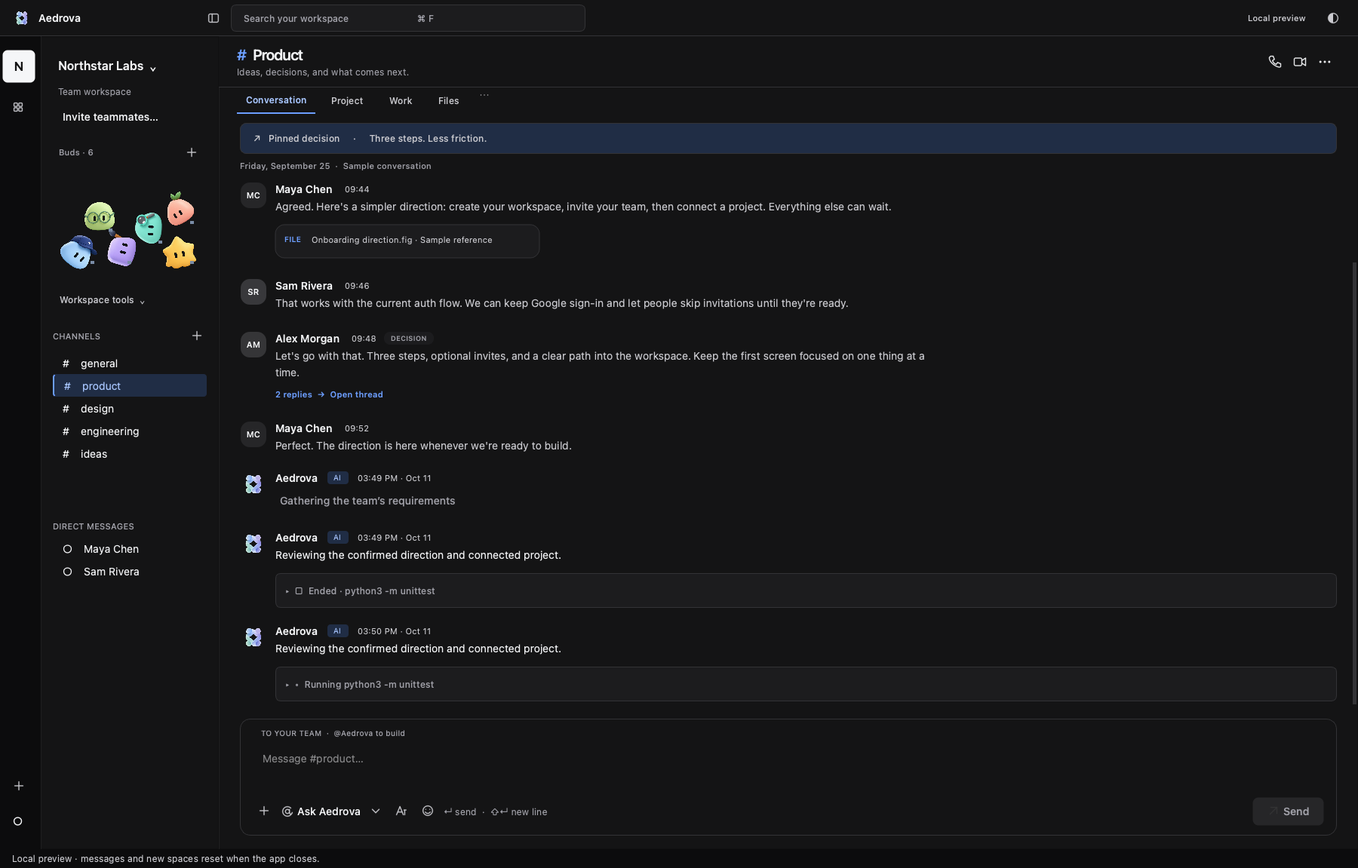
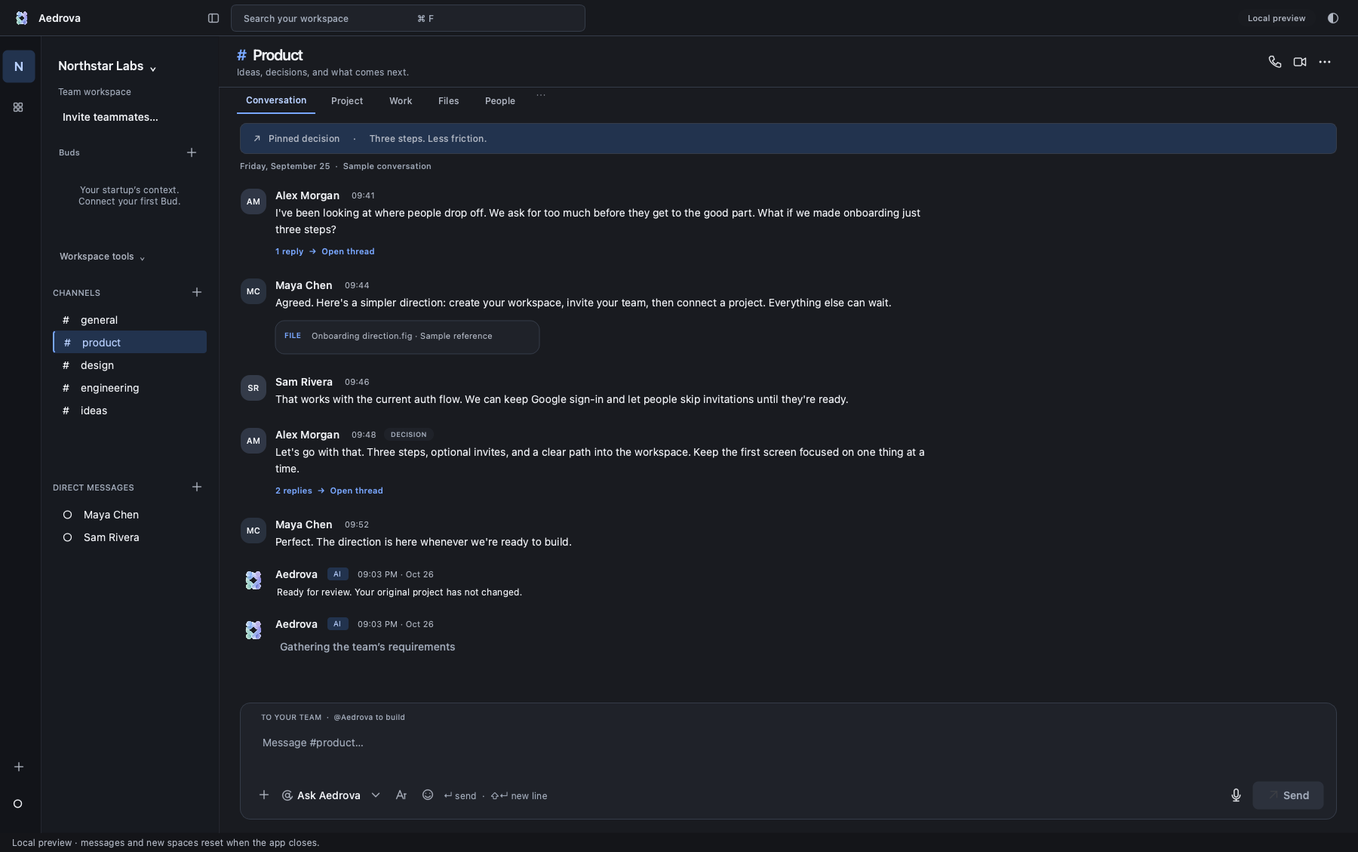
Refresh current product screenshots and introduce the Aedrova team (#26)
* Refresh current product screenshots and introduce the Aedrova team

* Arrange founders above communications in the team hierarchy

diff --git a/aedrova_site/templates/home.html b/aedrova_site/templates/home.html
@@ -20,7 +20,7 @@
 </section>
 
 <section class="statement reveal" id="how-it-works"><div class="section-label"><span>01 / FROM CONVERSATION TO CREATION</span><span>Aedrova, in three moments</span></div><h2>You’ve talked it through.<br><em>Now bring it to life.</em></h2><p>The idea. The decisions. The detail someone mentioned last Tuesday.<br>Your agent searches across your accessible chatspace to connect the dots before it builds.</p><div class="journey"><div><b>01</b><h3>Organize your team.</h3><p>Bring teams, channels and project discussions into a focused workspace.</p></div><div><b>02</b><h3>Give it direction.</h3><p>Agree on what’s next. Name your agent and connect your project.</p></div><div><b>03</b><h3>Make something real.</h3><p>Mention your agent. It plans, codes and tests with your saved permissions.</p></div></div></section>
-<section class="product-section reveal"><div class="product-intro"><span class="eyebrow">TEAM COMMUNICATION, CONNECTED TO DELIVERY.</span><h2>Your team’s workspace.<br><em>With the power to build.</em></h2><p>Your team already knows the story. Your agent should too.<br>Shared conversations, project briefs and agreed decisions become its starting point.</p></div><figure class="desktop-capture bud-anchor"><span class="bud-peek workspace-bud" aria-hidden="true"><span class="site-bud look-product"></span></span><img data-capture-theme="dark" src="/static/workspace-dark.png?v=20261011" alt="Actual Aedrova desktop: Workspace channels and team conversation" loading="lazy" width="1800" height="1151"><figcaption>Actual Aedrova desktop · Local demonstration workspace</figcaption></figure>
+<section class="product-section reveal"><div class="product-intro"><span class="eyebrow">TEAM COMMUNICATION, CONNECTED TO DELIVERY.</span><h2>Your team’s workspace.<br><em>With the power to build.</em></h2><p>Your team already knows the story. Your agent should too.<br>Shared conversations, project briefs and agreed decisions become its starting point.</p></div><figure class="desktop-capture bud-anchor"><span class="bud-peek workspace-bud" aria-hidden="true"><span class="site-bud look-product"></span></span><picture><img class="meeting-image-light" src="/static/workspace-light.png?v=20261026" alt="Actual Aedrova desktop: Workspace channels and team conversation" loading="lazy" width="1800" height="1129"><img class="meeting-image-dark" src="/static/workspace-dark.png?v=20261026" alt="Actual Aedrova desktop: Workspace channels and team conversation" loading="lazy" width="1800" height="1129"></picture><figcaption>Actual Aedrova desktop · Local demonstration workspace</figcaption></figure>
 <div class="integration-strip"><span>Keep the tools you love.</span><strong>Codex</strong><strong>Claude Code</strong><strong>GitHub</strong><strong>VS Code</strong><strong>Cursor</strong></div></section>
 <section class="buds-section reveal" id="ai-teammates" aria-labelledby="buds-heading">
 <div class="buds-heading"><span class="eyebrow">MEET YOUR BUDS · DESKTOP PREVIEW</span><h2 id="buds-heading">Small teammates.<br><em>Real potential.</em></h2><p>Give each Bud a name, a specialty and a little personality.<br>They live beside your team, ready when you mention them.</p></div>
@@ -28,27 +28,28 @@
 <p class="buds-availability">Buds are implemented in the desktop preview. Connector availability depends on provider setup and authorization; some integrations still require production approval. Public access remains waitlist-only.</p>
 </section>
 <section class="features" id="features"><div class="section-label"><span>02 / THE WORKSPACE</span><span>Everything has its place</span></div>
-<article class="feature-story reveal"><div class="story-copy"><span class="eyebrow">THE TEAM’S HOME BASE</span><h2>Keep teams aligned.<br><em>Keep discussions focused.</em></h2><p>Private workspaces and channels. Focused threads. Direct messages, shared files and easy invitations. One place for the people behind the product.</p><span class="feature-note">Channels · Threads · DMs · Files · Invitations · Roles</span></div><figure class="bud-anchor story-capture"><span class="bud-peek thread-bud" aria-hidden="true"><span class="site-bud look-marketing"></span></span><img data-capture-theme="light" src="/static/thread-light.png?v=20261011" alt="Actual Aedrova desktop: Focused discussion in the thread panel" loading="lazy" width="1800" height="1151"><figcaption>Actual desktop UI · Local demonstration workspace</figcaption></figure></article>
-<article class="feature-story reverse reveal"><div class="story-copy"><span class="eyebrow">SAME TEAM. SAME CONTEXT.</span><h2>It starts with<br><em>what your team knows.</em></h2><p>The brief is more than your last message. When you ask Aedrova to build, it searches your accessible channels, threads and conversations, brings in supported text files and project briefs, and follows the decisions your team has confirmed. Less re-explaining. More building from the same understanding.</p><span class="feature-note">Chats &amp; threads · Supported text files · Project briefs · Confirmed decisions</span></div><figure class="bud-anchor story-capture"><span class="bud-peek files-bud" aria-hidden="true"><span class="site-bud look-designer"></span></span><img data-capture-theme="light" src="/static/files-light.png?v=20261011" alt="Actual Aedrova desktop: Shared sample product briefs and design references" loading="lazy" width="1800" height="1151"><figcaption>Actual desktop UI · Local demonstration workspace</figcaption></figure></article>
-<article class="feature-story reveal"><div class="story-copy"><span class="eyebrow">YOUR NEW TEAMMATE</span><h2>Meet Aedrova.<br><em>Or make it your own.</em></h2><p>A named coding agent, powered by Codex or Claude Code. It plans and executes in the background using your project permissions. Give it a task. Keep the conversation going.</p><span class="feature-note">Agent nicknames · Automatic planning · Live activity · Stop controls</span></div><figure class="story-capture"><img data-capture-theme="dark" src="/static/activity-dark.png?v=20261011" alt="Actual Aedrova desktop: In-chat coding agent activity demonstration" loading="lazy" width="1800" height="1151"><figcaption>Actual desktop UI · Demonstration activity, not a live provider run</figcaption></figure></article>
-<article class="feature-story reverse reveal"><div class="story-copy"><span class="eyebrow">REAL WORK, IN YOUR REAL PROJECT</span><h2>The conversation ends.<br><em>The code begins.</em></h2><p>Connect your local project and IDE. Your agent builds in a separate copy, runs tests and shows its work. Review the diff, apply the changes and approve delivery to GitHub.</p><span class="feature-note">Local IDE · Tests · Diffs · Approved branch &amp; draft PR · Static preview</span></div><figure class="bud-anchor story-capture"><span class="bud-peek project-bud" aria-hidden="true"><span class="site-bud look-builder"></span></span><img data-capture-theme="dark" src="/static/projects-dark.png?v=20261011" alt="Actual Aedrova desktop: Projects tab with a sample project brief" loading="lazy" width="1800" height="1151"><figcaption>Actual desktop UI · Projects tab with a sample brief</figcaption></figure></article>
+<article class="feature-story reveal"><div class="story-copy"><span class="eyebrow">THE TEAM’S HOME BASE</span><h2>Keep teams aligned.<br><em>Keep discussions focused.</em></h2><p>Private workspaces and channels. Focused threads. Direct messages, shared files and easy invitations. One place for the people behind the product.</p><span class="feature-note">Channels · Threads · DMs · Files · Invitations · Roles</span></div><figure class="bud-anchor story-capture"><span class="bud-peek thread-bud" aria-hidden="true"><span class="site-bud look-marketing"></span></span><picture><img class="meeting-image-light" src="/static/thread-light.png?v=20261026" alt="Actual Aedrova desktop: Focused discussion in the thread panel" loading="lazy" width="1800" height="1129"><img class="meeting-image-dark" src="/static/thread-dark.png?v=20261026" alt="Actual Aedrova desktop: Focused discussion in the thread panel" loading="lazy" width="1800" height="1129"></picture><figcaption>Actual desktop UI · Local demonstration workspace</figcaption></figure></article>
+<article class="feature-story reverse reveal"><div class="story-copy"><span class="eyebrow">SAME TEAM. SAME CONTEXT.</span><h2>It starts with<br><em>what your team knows.</em></h2><p>The brief is more than your last message. When you ask Aedrova to build, it searches your accessible channels, threads and conversations, brings in supported text files and project briefs, and follows the decisions your team has confirmed. Less re-explaining. More building from the same understanding.</p><span class="feature-note">Chats &amp; threads · Supported text files · Project briefs · Confirmed decisions</span></div><figure class="bud-anchor story-capture"><span class="bud-peek files-bud" aria-hidden="true"><span class="site-bud look-designer"></span></span><picture><img class="meeting-image-light" src="/static/files-light.png?v=20261026" alt="Actual Aedrova desktop: Shared sample product briefs and design references" loading="lazy" width="1800" height="1129"><img class="meeting-image-dark" src="/static/files-dark.png?v=20261026" alt="Actual Aedrova desktop: Shared sample product briefs and design references" loading="lazy" width="1800" height="1129"></picture><figcaption>Actual desktop UI · Local demonstration workspace</figcaption></figure></article>
+<article class="feature-story reveal"><div class="story-copy"><span class="eyebrow">YOUR NEW TEAMMATE</span><h2>Meet Aedrova.<br><em>Or make it your own.</em></h2><p>A named coding agent, powered by Codex or Claude Code. It plans and executes in the background using your project permissions. Give it a task. Keep the conversation going.</p><span class="feature-note">Agent nicknames · Automatic planning · Live activity · Stop controls</span></div><figure class="story-capture"><picture><img class="meeting-image-light" src="/static/activity-light.png?v=20261026" alt="Actual Aedrova desktop: In-chat coding agent activity demonstration" loading="lazy" width="1800" height="1129"><img class="meeting-image-dark" src="/static/activity-dark.png?v=20261026" alt="Actual Aedrova desktop: In-chat coding agent activity demonstration" loading="lazy" width="1800" height="1129"></picture><figcaption>Actual desktop UI · Demonstration activity, not a live provider run</figcaption></figure></article>
+<article class="feature-story reverse reveal"><div class="story-copy"><span class="eyebrow">REAL WORK, IN YOUR REAL PROJECT</span><h2>The conversation ends.<br><em>The code begins.</em></h2><p>Connect your local project and IDE. Your agent builds in a separate copy, runs tests and shows its work. Review the diff, apply the changes and approve delivery to GitHub.</p><span class="feature-note">Local IDE · Tests · Diffs · Approved branch &amp; draft PR · Static preview</span></div><figure class="bud-anchor story-capture"><span class="bud-peek project-bud" aria-hidden="true"><span class="site-bud look-builder"></span></span><picture><img class="meeting-image-light" src="/static/projects-light.png?v=20261026" alt="Actual Aedrova desktop: Projects tab with a sample project brief" loading="lazy" width="1800" height="1129"><img class="meeting-image-dark" src="/static/projects-dark.png?v=20261026" alt="Actual Aedrova desktop: Projects tab with a sample project brief" loading="lazy" width="1800" height="1129"></picture><figcaption>Actual desktop UI · Projects tab with a sample brief</figcaption></figure></article>
 <div class="principles reveal"><article><span>01 / YOUR SPACE, YOUR SAY</span><h3>Control stays with you.</h3><p>Google sign-in, workspace roles and channel access. Review before applying changes. Publishing to GitHub takes a separate approval.</p></article><article><span>02 / KEEP THE THREAD</span><h3>Pick up where you left off.</h3><p>A durable build queue, run history and usage visibility. Saved work stays available. Choose what to resume after a restart.</p></article></div>
 </section>
 <section class="meeting-section reveal" id="meetings" aria-labelledby="meeting-heading">
 <div class="meeting-copy"><span class="eyebrow">MEETINGS / PART OF YOUR WORKSPACE</span><h2 id="meeting-heading">Talk it through.<br><em>Keep the understanding.</em></h2><p>Start a meeting from a channel. Bring your team together with audio, video and screen sharing, then return to the conversation without leaving Aedrova.</p><p>A join card brings public meetings into #general or your team’s chosen channel. See who’s there through participant photos and a live count. Private meetings stay in their own channel.</p><span class="coming">Implemented in the desktop preview · Public rollout pending</span></div>
-<figure class="bud-anchor story-capture meeting-overview"><span class="bud-peek meeting-bud" aria-hidden="true"><span class="site-bud look-finance"></span></span><picture><img class="meeting-image-light" src="/static/meetings-light.png?v=20261011" alt="Actual light-theme Aedrova meeting settings with Start meeting and Check meeting devices" loading="lazy" width="1060" height="830"><img class="meeting-image-dark" src="/static/meetings-dark.png?v=20261011" alt="Actual dark-theme Aedrova meeting settings with Start meeting and Check meeting devices" loading="lazy" width="1060" height="830"></picture><figcaption>Actual Mac app · Local preview · No staged call or simulated participants</figcaption></figure>
+<figure class="bud-anchor story-capture meeting-overview"><span class="bud-peek meeting-bud" aria-hidden="true"><span class="site-bud look-finance"></span></span><picture><img class="meeting-image-light" src="/static/meetings-light.png?v=20261026" alt="Actual light-theme Aedrova meeting settings with Start meeting and Check meeting devices" loading="lazy" width="1060" height="830"><img class="meeting-image-dark" src="/static/meetings-dark.png?v=20261026" alt="Actual dark-theme Aedrova meeting settings with Start meeting and Check meeting devices" loading="lazy" width="1060" height="830"></picture><figcaption>Actual Mac app · Local preview · No staged call or simulated participants</figcaption></figure>
 </section>
 <section class="meeting-details reveal" aria-label="Meeting capabilities">
 <article><span class="eyebrow">01 / A FAMILIAR PLACE TO MEET</span><h3>The controls you expect.</h3><p>Gallery and speaker views. A participant panel. Clear microphone, camera and screen-sharing controls. Join with your devices off and choose when to enable them.</p></article>
 <article><span class="eyebrow">02 / READY BEFORE YOU JOIN</span><h3>A little confidence first.</h3><p>Check your camera, microphone input, speakers and screen preview locally. Device checks aren’t shared with the meeting or saved as recordings.</p></article>
 <article><span class="eyebrow">03 / CONTEXT, WITH CONSENT</span><h3>Words that inform the work.</h3><p>Optional audio transcription requires current consent from every participant. AI reuse is a separate choice. Review saved text, edit it and confirm decisions before it becomes part of your agent’s accessible build context.</p></article>
 </section>
-<section class="meeting-device-section reveal"><div class="meeting-copy"><span class="eyebrow">YOUR TEAM’S CONTEXT. YOUR TEAM’S CONTROL.</span><h2>The discussion<br><em>stays connected.</em></h2><p>Chat explains what changed. Meetings explain why. Reviewed, consented transcripts and confirmed decisions can sit alongside accessible conversations and supported files when your agent gathers the context for a build.</p><p>Meeting context comes from audio transcripts and reviewed text. Screen sharing lets teammates see your work; it does not give the agent automatic visual understanding of your screen.</p><small>Transcription requires an enabled meeting service and speech provider. Public meeting availability is still being validated; the website remains waitlist-only.</small></div><figure class="story-capture meeting-device-capture"><img class="meeting-image-light" src="/static/devices-light.png?v=20261011" alt="Actual light-theme Aedrova device setup with camera, microphone, speaker and screen checks; all devices off" loading="lazy" width="1050" height="1050"><img class="meeting-image-dark" src="/static/devices-dark.png?v=20261011" alt="Actual dark-theme Aedrova device setup with camera, microphone, speaker and screen checks; all devices off" loading="lazy" width="1050" height="1050"><figcaption>Actual device-check screen · Devices off</figcaption></figure></section>
-<section class="meeting-device-section reveal" id="product-memory"><div class="meeting-copy"><span class="eyebrow">PRODUCT MEMORY · DESKTOP PREVIEW</span><h2>Decisions that stay.<br><em>Context that evolves.</em></h2><p>Keep goals, requirements and constraints beside the conversations that shaped them. Review proposals, approve decisions and trace each entry back to its source.</p><p>Changed evidence is flagged. Replacements retain revision history. Your agent receives a pinned memory snapshot for its build, with private-source permissions intact.</p><small>Implemented in the local desktop preview. Hosted memory persistence and privacy checks are validated; public access remains waitlist-only. Proposals and unresolved conflicts are not approved requirements.</small></div><figure class="bud-anchor story-capture"><span class="bud-peek memory-bud" aria-hidden="true"><span class="site-bud look-product"></span></span><img class="meeting-image-light" src="/static/memory-light.png?v=20261011" alt="Actual Aedrova Product memory view in light theme, with a sample approved constraint and source citation" loading="lazy" width="1400" height="1100"><img class="meeting-image-dark" src="/static/memory-dark.png?v=20261011" alt="Actual Aedrova Product memory view in dark theme, with a sample approved constraint and review controls" loading="lazy" width="1400" height="1100"><figcaption>Actual desktop preview · Sample data · Rollout pending</figcaption></figure></section>
+<section class="meeting-device-section reveal"><div class="meeting-copy"><span class="eyebrow">YOUR TEAM’S CONTEXT. YOUR TEAM’S CONTROL.</span><h2>The discussion<br><em>stays connected.</em></h2><p>Chat explains what changed. Meetings explain why. Reviewed, consented transcripts and confirmed decisions can sit alongside accessible conversations and supported files when your agent gathers the context for a build.</p><p>Meeting context comes from audio transcripts and reviewed text. Screen sharing lets teammates see your work; it does not give the agent automatic visual understanding of your screen.</p><small>Transcription requires an enabled meeting service and speech provider. Public meeting availability is still being validated; the website remains waitlist-only.</small></div><figure class="story-capture meeting-device-capture"><img class="meeting-image-light" src="/static/devices-light.png?v=20261026" alt="Actual light-theme Aedrova device setup with camera, microphone, speaker and screen checks; all devices off" loading="lazy" width="1050" height="1050"><img class="meeting-image-dark" src="/static/devices-dark.png?v=20261026" alt="Actual dark-theme Aedrova device setup with camera, microphone, speaker and screen checks; all devices off" loading="lazy" width="1050" height="1050"><figcaption>Actual device-check screen · Devices off</figcaption></figure></section>
+<section class="meeting-device-section reveal" id="product-memory"><div class="meeting-copy"><span class="eyebrow">PRODUCT MEMORY · DESKTOP PREVIEW</span><h2>Decisions that stay.<br><em>Context that evolves.</em></h2><p>Keep goals, requirements and constraints beside the conversations that shaped them. Review proposals, approve decisions and trace each entry back to its source.</p><p>Changed evidence is flagged. Replacements retain revision history. Your agent receives a pinned memory snapshot for its build, with private-source permissions intact.</p><small>Implemented in the local desktop preview. Hosted memory persistence and privacy checks are validated; public access remains waitlist-only. Proposals and unresolved conflicts are not approved requirements.</small></div><figure class="bud-anchor story-capture"><span class="bud-peek memory-bud" aria-hidden="true"><span class="site-bud look-product"></span></span><img class="meeting-image-light" src="/static/memory-light.png?v=20261026" alt="Actual Aedrova Product memory view in light theme, with a sample approved constraint and source citation" loading="lazy" width="1000" height="1050"><img class="meeting-image-dark" src="/static/memory-dark.png?v=20261026" alt="Actual Aedrova Product memory view in dark theme, with a sample approved constraint and review controls" loading="lazy" width="1000" height="1050"><figcaption>Actual desktop preview · Sample data · Rollout pending</figcaption></figure></section>
 
-<section class="meeting-device-section reveal buds-connectors-story"><div class="meeting-copy"><span class="eyebrow">YOUR TOOLS. A LITTLE MORE CONNECTED.</span><h2>Give your Bud<br><em>a useful starting point.</em></h2><p>A connector gallery organized around your Bud’s role. Recognizable app icons, clear access descriptions and connection status make setup easier to understand.</p><p>GitHub, Supabase, Figma, Notion, Stripe, TikTok, Instagram, Search and Vercel appear in the gallery. A listed connector is not a promise of public availability: each provider has its own setup and approval requirements.</p><a class="text-link" href="/waitlist">Meet your Buds when Aedrova opens →</a></div><figure class="story-capture bud-capture"><img src="/static/buds-connectors-current.png?v=20261011" alt="Actual current Aedrova Bud setup: Builder connector gallery with GitHub, Supabase and Vercel app icons" loading="lazy" width="1200" height="1000"><figcaption>Actual current Mac app · Bud connector gallery · Preview</figcaption><span class="bud-peek capture-bud" aria-hidden="true"><span class="site-bud look-research"></span></span></figure></section>
-<section class="meeting-device-section reveal"><div class="meeting-copy"><span class="eyebrow">A CLEAR HANDOFF</span><h2>Connected.<br><em>And in your corner.</em></h2><p>Connection confirmations show your Bud, the authorized tool and what it can access. Return to your workspace and keep moving.</p><small>This current desktop capture uses demonstration data to show a read-only GitHub confirmation. It does not establish public connector availability.</small></div><figure class="story-capture"><img src="/static/buds-connection-current.png?v=20261011" alt="Current Aedrova desktop confirmation UI: Orbit Bud with a sample read-only GitHub connection" loading="lazy" width="823" height="572"><figcaption>Actual desktop confirmation UI · Demonstration data</figcaption></figure></section>
-<section class="meeting-device-section reveal" id="build-evidence"><div class="meeting-copy"><span class="eyebrow">BUILD EVIDENCE · DESKTOP PREVIEW</span><h2>From a decision.<br><em>To a reviewable change.</em></h2><p>Connect approved requirements and source citations to actual file diffs and observed check results. Keep acceptance criteria beside the evidence your team reviews.</p><p>Comment, request changes and approve an exact evidence version. A changed source or a later edit keeps old checks from standing in for current verification.</p><small>Implemented in the local desktop preview. Hosted shared-review persistence and two-account permission checks are validated. Review does not apply or publish code; delivery still uses explicit approval. Public access remains waitlist-only.</small></div><figure class="story-capture"><img class="meeting-image-light" src="/static/build-review-light.png?v=20261011" alt="Actual light-theme Aedrova build evidence screen with sample requirements and a real local check" loading="lazy" width="1440" height="1000"><img class="meeting-image-dark" src="/static/build-review-dark.png?v=20261011" alt="Actual dark-theme Aedrova shared-review screen with sample evidence" loading="lazy" width="1440" height="1000"><figcaption>Actual desktop preview · Sample data · Rollout pending</figcaption></figure></section>
+<section class="meeting-device-section reveal buds-connectors-story"><div class="meeting-copy"><span class="eyebrow">YOUR TOOLS. A LITTLE MORE CONNECTED.</span><h2>Give your Bud<br><em>a useful starting point.</em></h2><p>A connector gallery organized around your Bud’s role. Recognizable app icons, clear access descriptions and connection status make setup easier to understand.</p><p>GitHub, Supabase, Figma, Notion, Stripe, TikTok, Instagram, Search and Vercel appear in the gallery. A listed connector is not a promise of public availability: each provider has its own setup and approval requirements.</p><a class="text-link" href="/waitlist">Meet your Buds when Aedrova opens →</a></div><figure class="story-capture bud-capture"><picture><img class="meeting-image-light" src="/static/buds-connectors-current.png?v=20261026" alt="Actual current Aedrova Bud setup: Builder connector gallery with recognizable app icons" loading="lazy" width="1200" height="1000"><img class="meeting-image-dark" src="/static/buds-connectors-dark.png?v=20261026" alt="Actual current Aedrova Bud setup: Builder connector gallery with recognizable app icons" loading="lazy" width="1200" height="1000"></picture><figcaption>Actual current Mac app · Bud connector gallery · Preview</figcaption><span class="bud-peek capture-bud" aria-hidden="true"><span class="site-bud look-research"></span></span></figure></section>
+<section class="meeting-device-section reveal"><div class="meeting-copy"><span class="eyebrow">A CLEAR HANDOFF</span><h2>Connected.<br><em>And in your corner.</em></h2><p>Connection confirmations show your Bud, the authorized tool and what it can access. Return to your workspace and keep moving.</p><small>This current desktop capture uses demonstration data to show a read-only GitHub confirmation. It does not establish public connector availability.</small></div><figure class="story-capture"><picture><img class="meeting-image-light" src="/static/buds-connection-current.png?v=20261026" alt="Current Aedrova desktop confirmation UI: Orbit Bud with a sample read-only GitHub connection" loading="lazy" width="1200" height="1000"><img class="meeting-image-dark" src="/static/buds-connection-dark.png?v=20261026" alt="Current Aedrova desktop confirmation UI: Orbit Bud with a sample read-only GitHub connection" loading="lazy" width="1200" height="1000"></picture><figcaption>Actual desktop confirmation UI · Demonstration data</figcaption></figure></section>
+<section class="meeting-device-section reveal" id="build-evidence"><div class="meeting-copy"><span class="eyebrow">BUILD EVIDENCE · DESKTOP PREVIEW</span><h2>From a decision.<br><em>To a reviewable change.</em></h2><p>Connect approved requirements and source citations to actual file diffs and observed check results. Keep acceptance criteria beside the evidence your team reviews.</p><p>Comment, request changes and approve an exact evidence version. A changed source or a later edit keeps old checks from standing in for current verification.</p><small>Implemented in the local desktop preview. Hosted shared-review persistence and two-account permission checks are validated. Review does not apply or publish code; delivery still uses explicit approval. Public access remains waitlist-only.</small></div><figure class="story-capture"><img class="meeting-image-light" src="/static/build-review-light.png?v=20261026" alt="Actual light-theme Aedrova build evidence screen with sample requirements and a real local check" loading="lazy" width="1000" height="840"><img class="meeting-image-dark" src="/static/build-review-dark.png?v=20261026" alt="Actual dark-theme Aedrova shared-review screen with sample evidence" loading="lazy" width="1000" height="840"><figcaption>Actual desktop preview · Sample data · Rollout pending</figcaption></figure></section>
 <section class="more-section reveal"><span class="eyebrow">A LITTLE FURTHER AHEAD</span><h2>Room for what<br><em>comes next.</em></h2><p>Bring design intent into the same shared understanding.<br>Planned design and productivity integrations will connect more of the files,<br>designs and project knowledge your team works from.</p><div class="future-tools"><span>Figma</span><span>Notion</span><span>Google Drive</span><span>GitLab</span></div><small>On the roadmap. Availability will be announced as features ship.</small></section>
+{% include "team.html" %}
 <section class="faq reveal"><span class="eyebrow">A FEW THINGS YOU MIGHT BE WONDERING</span><h2>Let’s clear a little space.</h2><details><summary>Does my agent read every conversation?</summary><p>When you ask it to build, it searches across the workspace context you’re authorized to access, rather than relying only on your latest prompt. That includes accessible conversations, supported small text attachments and confirmed decisions. It stays quiet until invoked, and workspace and channel permissions still apply. Reviewed, consented meeting transcripts are implemented in the desktop preview and require an enabled meeting service. Buds can use authorized connector resources where provider setup is complete; public availability remains pending.</p></details><details><summary>Will it change my local project automatically?</summary><p>With your saved execution permission, the agent plans, codes and tests in a separate local copy. You review before applying changes to your original project. GitHub publication requires a separate approval.</p></details><details><summary>Are Codex and Claude Code included?</summary><p>The paid beta is being prepared with an included AI allowance through Aedrova’s managed provider access. Free includes limited AI access. Pro provides expanded capacity, and Team supports larger tasks and two simultaneous workflows. No automatic overage charges. <a href="/onboarding">Compare plans.</a> The current internal alpha uses separate provider setup; checkout stays closed until the paid experience is ready.</p></details><details><summary>Can we use it for meetings?</summary><p>The desktop preview includes channel meetings, audio and video, screen sharing, gallery and speaker views, device checks, and joinable channel announcements with participant presence. Optional transcription and AI reuse require participant consent and configured services. Public rollout and final multi-device validation are pending; join the waitlist for availability updates.</p></details><details><summary>What platform is Aedrova built for?</summary><p>Aedrova is a Mac desktop app, downloaded from this website. The public installer will be available after signing and release verification.</p></details></section>
 <section class="final-cta reveal bud-corner-section"><span class="bud-peek cta-bud" aria-hidden="true"><span class="site-bud look-marketing"></span></span><span class="eyebrow">GOOD THINGS START HERE</span><h2>Bring your team.<br><em>Move work forward.</em></h2><p>Your team’s conversations. Your shared understanding. Your next build.</p><a class="button" href="{{ "/waitlist" if waitlist_only else "/onboarding" }}">{{ "Join waitlist today" if waitlist_only else "Get started" }} <span>↗</span></a><a class="text-link" href="/onboarding">Take a look at the plans →</a></section>{% endblock %}

diff --git a/aedrova_site/static/site.css b/aedrova_site/static/site.css
@@ -405,3 +405,13 @@ footer.trust-footer{display:grid;grid-template-columns:minmax(180px,1fr) 3fr;gap
 @media(max-width:650px){.early-access-offer{padding:20px 16px}.early-access-active .regular-price{font-size:26px}}
 
 .early-access-active .regular-amount{text-decoration:line-through;text-decoration-thickness:1px;text-decoration-color:currentColor}
+
+/* Owner-confirmed team. Founders lead the vertical hierarchy. */
+.team-section{max-width:1200px;margin:110px auto;padding:60px 42px;border-top:1px solid var(--edge)}
+.team-intro{text-align:center;margin-bottom:48px}.team-intro h2{font-size:clamp(38px,4.5vw,64px);margin-bottom:24px}.team-intro p{max-width:470px;margin-inline:auto;font-size:14px}.team-intro .text-link{margin-top:12px}
+.team-hierarchy{max-width:960px;margin:auto}.team-tier-label{text-align:center;font-size:10px;letter-spacing:.13em;text-transform:uppercase;color:var(--muted);font-weight:500;margin:0 0 22px}.team-grid{display:grid;grid-template-columns:repeat(3,minmax(0,1fr));gap:28px}.team-member{min-width:0}.team-monogram{height:172px;border:1px solid var(--edge);border-radius:18px;background:var(--surface);position:relative;overflow:hidden;display:flex;align-items:center;justify-content:center;color:var(--text)}
+.team-monogram>span:first-child{font-size:44px;letter-spacing:-.055em;font-weight:500;z-index:1}.team-orbit{position:absolute;width:160px;height:160px;right:-70px;bottom:-85px;border:1px solid var(--blue);border-radius:50%;opacity:.24}.team-orbit:before{content:"";position:absolute;inset:-26px;border:1px solid var(--blue);border-radius:50%}.team-member:nth-child(2) .team-orbit{transform:translate(-160px,-100px)}.team-member:nth-child(3) .team-orbit{transform:translate(-145px,12px)}
+.team-member-details{padding:18px 2px 0}.team-member h4{font-size:17px;line-height:1.35;margin:0 0 7px;letter-spacing:-.025em;font-weight:600}.team-member p{font-size:12px;line-height:1.6;margin:0}.team-tier-communications{position:relative;padding-top:64px;margin-top:28px}.team-tier-communications:before{content:"";position:absolute;top:0;left:50%;height:40px;width:1px;background:var(--edge)}.team-tier-communications .team-grid{grid-template-columns:minmax(0,calc((100% - 56px)/3));justify-content:center}
+.legal .team-section{padding:42px 0;margin:48px 0}.legal .team-intro h2{margin-top:0}.legal .team-intro p{max-width:480px}
+@media(max-width:850px){.team-section{margin:65px auto;padding:40px 24px}.team-grid{gap:18px}.team-monogram{height:140px}.team-member h4{font-size:15px}}
+@media(max-width:600px){.team-grid,.team-tier-communications .team-grid{grid-template-columns:minmax(0,1fr);max-width:380px;margin-inline:auto;gap:28px}.team-monogram{height:190px}.team-member h4{font-size:19px}.team-member p{font-size:13px}.team-intro{margin-bottom:36px}}

diff --git a/aedrova_site/templates/base.html b/aedrova_site/templates/base.html
@@ -11,7 +11,7 @@
   <meta property="og:title" content="{{ seo.title }}">
   <meta property="og:description" content="{{ seo.description }}">
   <meta property="og:url" content="{{ seo.canonical }}">
-  <meta property="og:image" content="https://aedrova.com/static/workspace-dark.png">
+  <meta property="og:image" content="https://aedrova.com/static/workspace-dark.png?v=20261026">
   <meta name="twitter:card" content="summary_large_image">
   {% if seo.graph %}<script type="application/ld+json">{{ seo.graph | tojson }}</script>{% endif %}
   <meta name="theme-color" content="#F5F6F8">
@@ -43,7 +43,7 @@
 <div class="footer-brand"><a class="wordmark" href="/"><img src="/static/brand.png" alt="" width="28" height="28"><span>Aedrova</span></a><p>Your team, plus AI.</p></div>
 <nav class="footer-columns" aria-label="Footer navigation">
 <div><h2>Product</h2><a href="/#features">The workspace</a><a href="/#ai-teammates">Meet your Buds</a><a href="/onboarding">Plans for your team</a><a href="{{ '/waitlist' if waitlist_only else '/download' }}">{{ 'Join the waitlist' if waitlist_only else 'Downloads' }}</a></div>
-<div><h2>Resources</h2><a href="/product">What is Aedrova?</a><a href="/faq">Common questions</a><a href="/about">About Aedrova</a><a href="/research/crawlability">Our crawlability study</a><a href="/support">Help & troubleshooting</a><a href="/data-controls">Data & AI controls</a><a href="/enterprise">Enterprise inquiries</a></div>
+<div><h2>Resources</h2><a href="/product">What is Aedrova?</a><a href="/faq">Common questions</a><a href="/about">About Aedrova</a><a href="/#meet-the-team">Meet the team</a><a href="/research/crawlability">Our crawlability study</a><a href="/support">Help & troubleshooting</a><a href="/data-controls">Data & AI controls</a><a href="/enterprise">Enterprise inquiries</a></div>
 <div><h2>Trust</h2><a href="/privacy">Privacy policy</a><a href="/terms">Terms of service</a><a href="/refunds">Refund policy</a><a href="/acceptable-use">Acceptable use</a><a href="/subprocessors">Service providers</a><a href="/cookies">Cookies & storage</a><button class="text-link storage-settings" type="button" data-storage-settings>Storage choices</button></div>
 <div><h2>Support</h2><a href="/support">Contact us</a><a href="/security">Security reporting</a><a href="/data-controls#requests">Privacy requests</a><a href="/security#availability">Beta availability</a></div>
 </nav>

diff --git a/aedrova_site/templates/team.html b/aedrova_site/templates/team.html
@@ -1,0 +1,26 @@
+<section class="team-section reveal" id="meet-the-team" aria-labelledby="team-heading">
+  <div class="team-intro">
+    <span class="eyebrow">THE PEOPLE BEHIND AEDROVA</span>
+    <h2 id="team-heading">Meet the team.</h2>
+    <p>Building a calmer place for people, ideas and tools to work together.</p>
+    <a class="text-link" href="/support">Talk to us <span aria-hidden="true">↗</span></a>
+  </div>
+  <div class="team-hierarchy">
+    {% for tier, title in [("founders", "Founders"), ("communications", "Communications")] %}
+    <div class="team-tier team-tier-{{ tier }}" aria-labelledby="team-tier-{{ tier }}">
+    <h3 class="team-tier-label" id="team-tier-{{ tier }}">{{ title }}</h3>
+    <div class="team-grid">
+    {% for member in team_members if member.tier == tier %}
+    <article class="team-member" aria-labelledby="team-member-{{ tier }}-{{ loop.index }}">
+      <div class="team-monogram" aria-hidden="true"><span>{{ member.initials }}</span><span class="team-orbit"></span></div>
+      <div class="team-member-details">
+        <h4 id="team-member-{{ tier }}-{{ loop.index }}">{{ member.name }}</h4>
+        <p>{{ member.role }}</p>
+      </div>
+    </article>
+    {% endfor %}
+    </div>
+    </div>
+    {% endfor %}
+  </div>
+</section>

diff --git a/aedrova_site/templates/about.html b/aedrova_site/templates/about.html
@@ -2,6 +2,7 @@
 {% block main %}<article class="legal policy-document">
 <span class="eyebrow">THE PEOPLE BEHIND THE PRODUCT</span><h1>About Aedrova</h1>
 <p>Aedrova is building a workspace that connects team conversations, configurable Buds and AI-assisted software work. Our current focus is founders and small software teams.</p>
+{% include "team.html" %}
 <h2>Who writes this website?</h2><p>Product explanations, FAQs and first-party technical reports are published by the Aedrova team. Questions and corrections go to <a href="mailto:contact@aedrova.com">contact@aedrova.com</a>. We do not claim outside editorial review, certifications or independent research unless a specific source supports them.</p>
 <h2>How we maintain product information</h2><p>We distinguish available features, restricted Beta capabilities and planned work. Dated product pages record substantive reviews; we do not change dates solely to suggest freshness. Technical studies describe their sample, method and limitations. <a href="/research/crawlability">Read our first crawlability study</a>.</p>
 <h2>Business identity and availability</h2>{% include "business-identity.html" %}

diff --git a/tests/test_product_refresh.py b/tests/test_product_refresh.py
@@ -1,0 +1,54 @@
+"""Check genuine capture inventory and owner-confirmed public team details."""
+
+import hashlib
+import json
+import re
+import struct
+from pathlib import Path
+
+from test_public_pages import client  # noqa: F401
+
+from aedrova_site.team import TEAM_MEMBERS
+
+STATIC = Path(__file__).parents[1] / "aedrova_site/static"
+
+
+def test_team_is_server_rendered_on_home_and_about(client):  # noqa: F811
+    for path in ("/", "/about"):
+        response = client.get(path)
+        assert response.status_code == 200
+        markup = response.text
+        assert 'id="meet-the-team"' in markup
+        for person in TEAM_MEMBERS:
+            assert person["name"] in markup
+            assert person["role"].replace("&", "&amp;") in markup
+        assert markup.count('class="team-member"') == 4
+        founders = markup.index('id="team-tier-founders"')
+        communications = markup.index('id="team-tier-communications"')
+        for person in TEAM_MEMBERS[:3]:
+            assert founders < markup.index(person["name"]) < communications
+        assert communications < markup.index("Joash Thomas")
+        assert "Bio coming soon" not in markup
+        assert 'href="/#meet-the-team"' in markup
+
+
+def test_capture_inventory_matches_actual_files_and_all_home_ui_images(client):  # noqa: F811
+    inventory = json.loads((STATIC / "product-captures.json").read_text())
+    assert inventory["captured_at"] == "2026-10-26"
+    captures = {item["file"]: item for item in inventory["captures"]}
+    assert len(captures) == 24
+    for name, item in captures.items():
+        data = (STATIC / name).read_bytes()
+        assert hashlib.sha256(data).hexdigest() == item["sha256"]
+        assert struct.unpack(">II", data[16:24]) == (item["width"], item["height"])
+    markup = client.get("/").text
+    images = re.findall(r'<img\b[^>]*src="/static/([\w-]+\.png)([^\"]*)"', markup)
+    ui_images = [(name, query) for name, query in images if name in captures]
+    # The two teammate-editor assets are refreshed for direct/legacy links; the
+    # eleven current homepage stories each display both appearances.
+    assert {name for name, _ in ui_images} == {
+        name for name in captures if not name.startswith("teammate-")
+    }
+    assert all(query == "?v=20261026" for _, query in ui_images)
+    for name, _ in ui_images:
+        assert client.get("/static/" + name).status_code == 200

diff --git a/aedrova_site/app.py b/aedrova_site/app.py
@@ -42,6 +42,7 @@ from aedrova_site.policy import PLAN_POLICY, PUBLIC_PLAN_PRICES
 from aedrova_site.services import Identity, Payments, random_token
 from aedrova_site.speech import DictationService, SpeechService
 from aedrova_site.store import Denied, RateLimited, Store
+from aedrova_site.team import TEAM_MEMBERS
 from aedrova_site.traffic_limits import TrafficLimits
 
 ROOT = Path(__file__).parent
@@ -357,6 +358,7 @@ def create_app(config=None):
                 "promotion": promotion.status(),
                 "early_access_enabled": config.early_access_enabled,
                 "asset_version": asset_version,
+                "team_members": TEAM_MEMBERS,
                 **context,
             },
         )

diff --git a/aedrova_site/team.py b/aedrova_site/team.py
@@ -1,0 +1,13 @@
+"""Public team details confirmed by the owner; bios and headshots pending."""
+
+TEAM_MEMBERS = (
+    {"name": "Ayansh Varma", "role": "Founder & CEO / CTO", "initials": "AV", "tier": "founders"},
+    {"name": "Minh-Khoa Nguyen", "role": "Co-Founder & CMO", "initials": "MN", "tier": "founders"},
+    {"name": "Abhinav Thirumala", "role": "Co-Founder & CGO", "initials": "AT", "tier": "founders"},
+    {
+        "name": "Joash Thomas",
+        "role": "Director of Communication",
+        "initials": "JT",
+        "tier": "communications",
+    },
+)

diff --git a/docs/website-refresh-2026-10-26.md b/docs/website-refresh-2026-10-26.md
@@ -1,0 +1,33 @@
+# Website product captures and team — October 26, 2026
+
+Recaptured 24 current desktop UI assets with local synthetic demonstration data.
+Twenty-two variants are used across eleven homepage stories; two teammate-editor
+captures are retained for existing/direct asset links. The light meeting hub and
+device preflight recaptures are pixel-identical because those views did not change.
+All other captures changed. New dark versions of the two Bud stories now accompany
+their light counterparts. Every story switches with website appearance. Cache keys,
+Open Graph reference and intrinsic dimensions updated. Captures do not certify a
+live provider run, production connector approval or two-device meeting readiness.
+Existing captions and availability disclosures remain.
+
+Inventory and SHA-256 provenance: aedrova_site/static/product-captures.json.
+Repeatable desktop capture artifacts: sibling Aedrova/work/website-refresh-oct26;
+existing capture_memory.py, capture_build_evidence.py and capture_teammates.py scripts.
+No live account, private chat, microphone/camera activation or provider call used.
+A late-created GlassFrame meeting card inherited light colors; desktop _card now
+inherits the current theme and reduced-transparency setting at creation, tested.
+
+Meet the team appears on homepage and About, linked from the shared footer. Owner-
+confirmed names/roles are centralized in aedrova_site/team.py. Monograms are intentional
+letterforms, not fabricated headshots. Bios and headshots were not invented. Owner
+asked to supply bios at completion. No outside credentials, funding, registration
+or traction claims added.
+
+Local verification: 48 public/team/capture/discovery/trust tests passed; 14 desktop
+theme/visual tests passed. Ruff and diff checks passed. Browser reviewed light/dark
+team layout at desktop and mobile 390px, with page width equal to viewport and all
+four cards present. All capture image hashes/dimensions and routes checked.
+
+Release is isolated from the fourteen staging-only backend commits; those are not
+part of this marketing refresh. No billing, release or meeting availability gate
+is changed. Stage 1 remains open pending its existing provider/audio requirements.
